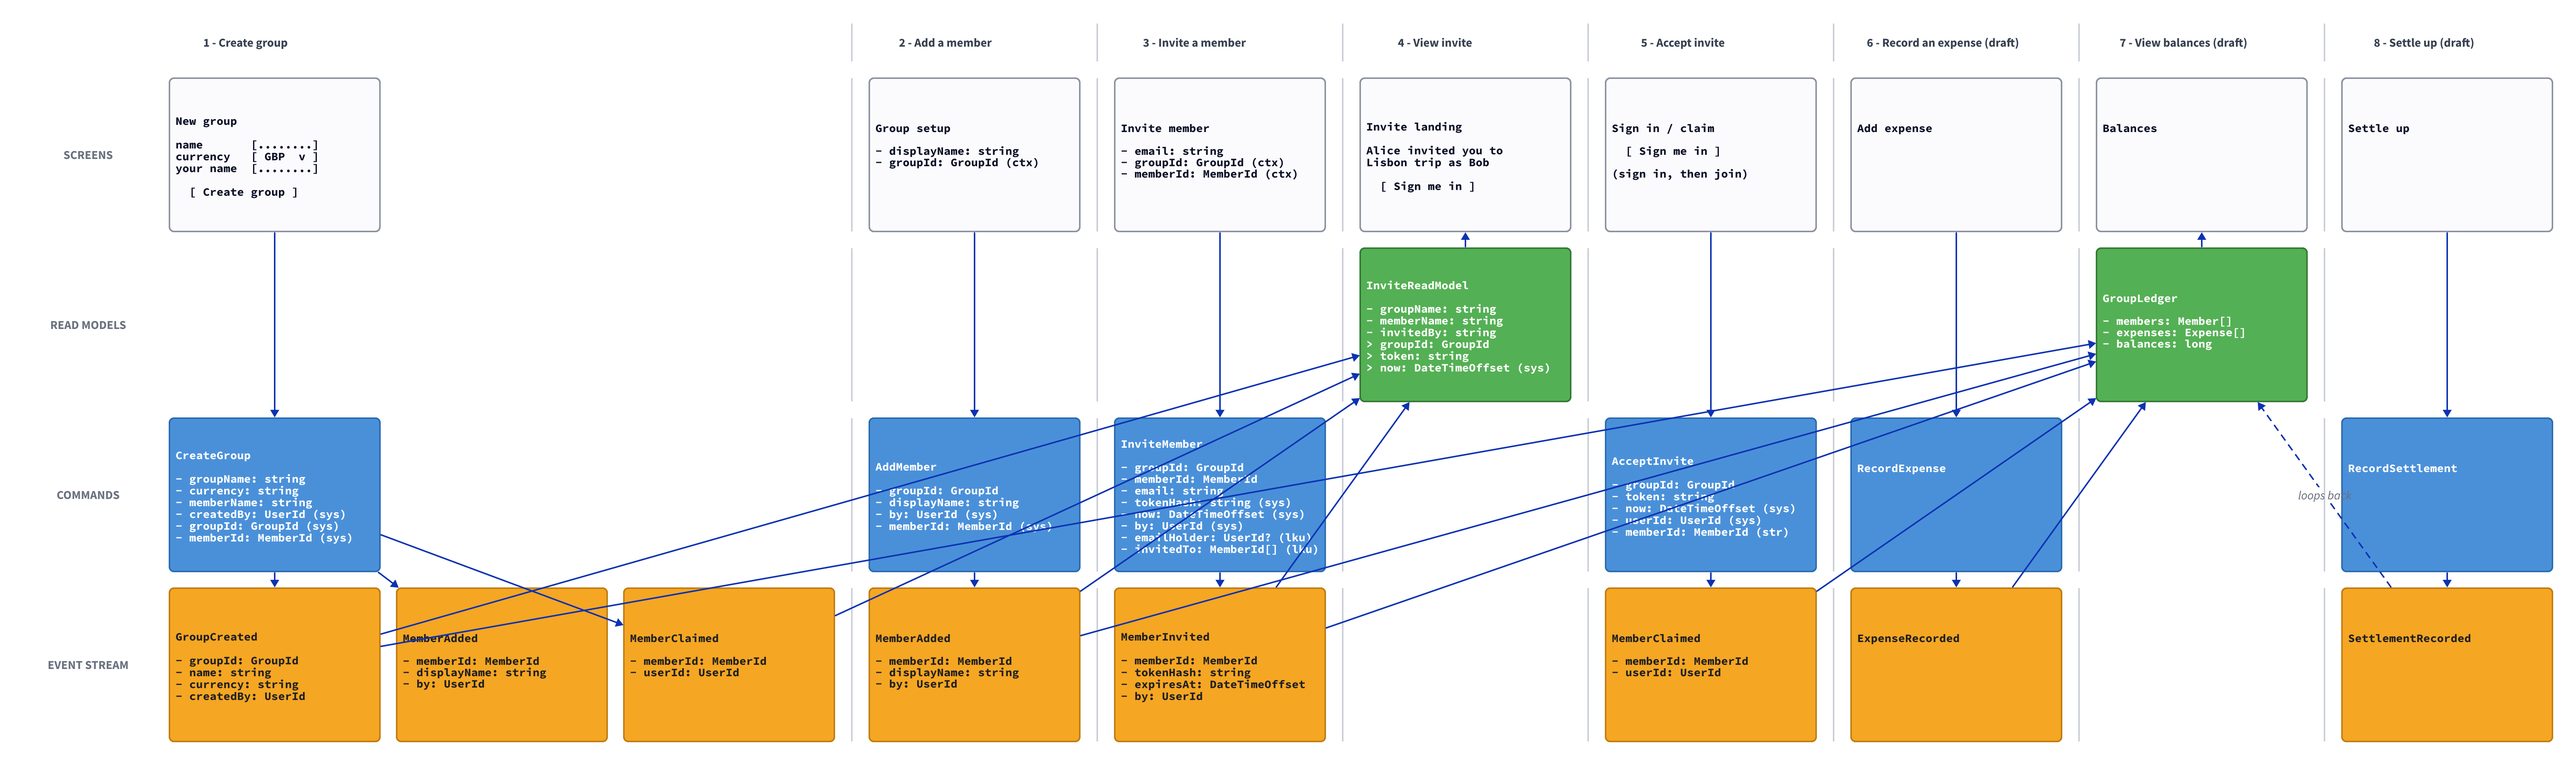
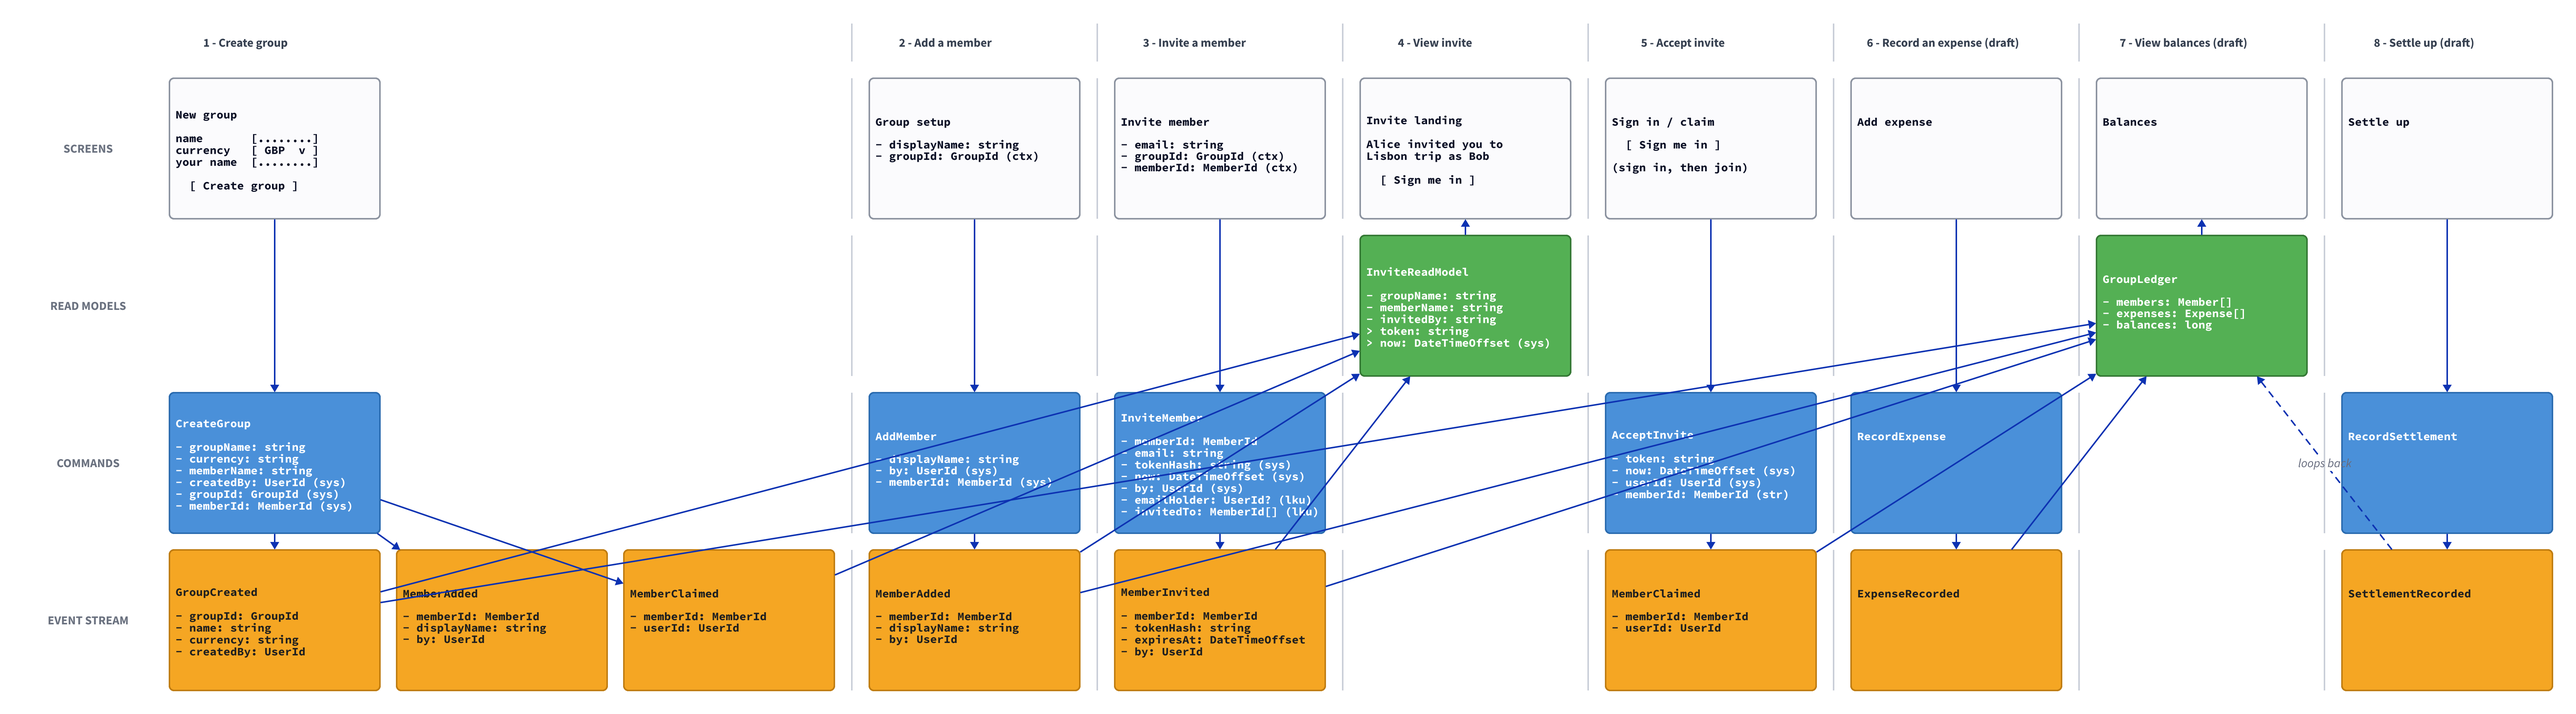
refactoring groupId

diff --git a/src/ShareExpenses/Slices/InviteMember/Endpoint.cs b/src/ShareExpenses/Slices/InviteMember/Endpoint.cs
@@ -74,11 +74,12 @@ public static class Endpoint
         var email = Decider.NormaliseEmail(request.Email);
 
         // Lookups for the guards (spec §11): outside the stream, possibly stale.
-        var command = new Command(groupId, member, request.Email, tokenHash, clock.GetUtcNow(), user.UserId())
-        {
-            EmailHolder = email.Length > 0 ? await directory.AccountFor(email, ct) : null,
-            InvitedTo = await SlotsInvitedAt(session, groupId, email, ct),
-        };
+        var emailHolder = email.Length > 0 ? await directory.AccountFor(email, ct) : null;
+        var invitedTo = await SlotsInvitedAt(session, groupId, email, ct);
+
+        var command = new Command(
+            member, request.Email, tokenHash, clock.GetUtcNow(), user.UserId(),
+            EmailHolder: emailHolder, InvitedTo: invitedTo);
 
         switch (Decider.Decide(state, command))
         {
@@ -86,9 +87,9 @@ public static class Endpoint
                 // Same session, same transaction as the event.
                 session.Store(new InviteDelivery
                 {
-                    Id = member.Value,
+                    Id = command.MemberId.Value,
                     GroupId = groupId,
-                    TokenHash = tokenHash,
+                    TokenHash = command.TokenHash,
                     Email = email,
                 });
 
@@ -99,7 +100,8 @@ public static class Endpoint
 
                 // Accepted implies the actor is a member and the slot exists.
                 pending.Email = new InviteEmail(
-                    groupId, member, email, link, state!.GroupName, state.Slots[state.Members[command.By]].Name, state.Slots[member].Name);
+                    groupId, command.MemberId, email, link,
+                    state!.GroupName, state.Slots[state.Members[command.By]].Name, state.Slots[command.MemberId].Name);
                 return (Results.Ok(new Response(link)), [.. accepted.Events]);
             case Decision.Rejected { Kind: Rejection.NotFound } rejected:
                 return (Results.Problem(rejected.Reason, statusCode: StatusCodes.Status404NotFound), []);

diff --git a/src/ShareExpenses/Slices/AddMember/Endpoint.cs b/src/ShareExpenses/Slices/AddMember/Endpoint.cs
@@ -34,7 +34,6 @@ public static class Endpoint
     [WolverinePost("/groups/{group}/members", Name = "AddMember")]
     [Authorize]
     public static (IResult, Events) Post(
-        string group,
         Request request,
         // Required = false: a missing stream arrives as null and is answered by
         // Decide, so "no such group" and "not a member" give the same 404 body.
@@ -43,8 +42,7 @@ public static class Endpoint
         HttpContext http)
     {
         var memberId = MemberId.New();
-        // A malformed id resolves to a fresh one each time; harmless, as no stream has it.
-        var command = new Command(GroupStream(group), request.DisplayName, user.UserId());
+        var command = new Command(request.DisplayName, user.UserId());
 
         return Decider.Decide(state, command, memberId) switch
         {

diff --git a/src/ShareExpenses/Slices/ViewInvite/Reader.cs b/src/ShareExpenses/Slices/ViewInvite/Reader.cs
@@ -2,9 +2,12 @@ using ShareExpenses.Shared;
 
 namespace ShareExpenses.Slices.ViewInvite;
 
-/// <summary>The query, as in <c>event-model.yaml</c>: group from the route, token from the link's fragment.</summary>
+/// <summary>
+/// The query, as in <c>event-model.yaml</c>: the token from the link's fragment. The group
+/// from the link only selects the stream, so it is not here (spec §13).
+/// </summary>
 /// <param name="Now">The clock, passed in so reading stays pure and testable.</param>
-internal sealed record Query(GroupId GroupId, string? Token, DateTimeOffset Now);
+internal sealed record Query(string? Token, DateTimeOffset Now);
 
 /// <summary>
 /// The read model, as in <c>event-model.yaml</c>: exactly what the landing page

diff --git a/src/ShareExpenses/Slices/ViewInvite/Endpoint.cs b/src/ShareExpenses/Slices/ViewInvite/Endpoint.cs
@@ -30,11 +30,10 @@ public static class Endpoint
     [WolverinePost("/invites/{group}/lookup", Name = "ViewInvite")]
     [AllowAnonymous]
     public static IResult Post(
-        string group,
         Request? request,
         [ReadAggregate(FromMethod = nameof(GroupStream), Required = false)] State? state,
         TimeProvider clock) =>
-        Reader.Read(state, new Query(GroupStream(group), request?.Token, clock.GetUtcNow())) is { } invite
+        Reader.Read(state, new Query(request?.Token, clock.GetUtcNow())) is { } invite
             ? Results.Ok(invite)
             : Results.Problem(NotFoundReason, statusCode: StatusCodes.Status404NotFound);
 }

diff --git a/src/ShareExpenses/Slices/AcceptInvite/Decider.cs b/src/ShareExpenses/Slices/AcceptInvite/Decider.cs
@@ -7,7 +7,7 @@ namespace ShareExpenses.Slices.AcceptInvite;
 /// <param name="Token">From the invite link's fragment, posted in the body.</param>
 /// <param name="Now">The clock, passed in so deciding stays pure and testable.</param>
 /// <param name="UserId">The signed-in user, claiming.</param>
-internal sealed record Command(GroupId GroupId, string? Token, DateTimeOffset Now, UserId UserId);
+internal sealed record Command(string? Token, DateTimeOffset Now, UserId UserId);
 
 /// <summary>Specs: <c>docs/event-model/slice-05-claim-member.md</c>.</summary>
 internal static class Decider

diff --git a/src/ShareExpenses/Slices/InviteMember/Decider.cs b/src/ShareExpenses/Slices/InviteMember/Decider.cs
@@ -16,9 +16,11 @@ namespace ShareExpenses.Slices.InviteMember;
 /// outside the stream and may be stale. The worst a stale lookup can do is let a
 /// mistake through to claim time, where "one user, one slot" is enforced against
 /// the stream itself.
+///
+/// No group id: it only selects the stream, which Wolverine fetches from the route
+/// before the endpoint runs (spec §13). Deciding gets the group as its folded state.
 /// </remarks>
 internal sealed record Command(
-    GroupId GroupId,
     MemberId MemberId,
     string? Email,
     string TokenHash,

diff --git a/tests/ShareExpenses.Tests/Slices/AcceptInvite/AcceptInviteSpecs.cs b/tests/ShareExpenses.Tests/Slices/AcceptInvite/AcceptInviteSpecs.cs
@@ -45,7 +45,7 @@ public class AcceptInviteSpecs
     private static readonly DecideSpec<Command> Spec =
         new((history, command) => Decider.Decide(Fold.Of<State>(history), command));
 
-    private static Command AcceptInvite(string? token, UserId by, DateTimeOffset at) => new(G1, token, at, by);
+    private static Command AcceptInvite(string? token, UserId by, DateTimeOffset at) => new(token, at, by);
 
     [Fact]
     public void S1_claims_the_invited_slot() =>

diff --git a/src/ShareExpenses/Slices/AddMember/Decider.cs b/src/ShareExpenses/Slices/AddMember/Decider.cs
@@ -4,7 +4,7 @@ using ShareExpenses.Slices.CreateGroup;
 namespace ShareExpenses.Slices.AddMember;
 
 /// <summary>The command, as in <c>event-model.yaml</c>. Inputs are raw; deciding validates them.</summary>
-internal sealed record Command(GroupId GroupId, string? DisplayName, UserId By);
+internal sealed record Command(string? DisplayName, UserId By);
 
 /// <summary>Specs: <c>docs/event-model/slice-02-add-member.md</c>.</summary>
 internal static class Decider

diff --git a/tests/ShareExpenses.Tests/Slices/AddMember/AddMemberSpecs.cs b/tests/ShareExpenses.Tests/Slices/AddMember/AddMemberSpecs.cs
@@ -36,7 +36,7 @@ public class AddMemberSpecs
 
     private DecideSpec<Command> Spec => new((history, command) => Decider.Decide(Fold.Of<State>(history), command, _next));
 
-    private static Command AddMember(string? displayName, UserId by) => new(G1, displayName, by);
+    private static Command AddMember(string? displayName, UserId by) => new(displayName, by);
 
     [Fact]
     public void S1_adds_a_placeholder_member_by_name_alone() =>

diff --git a/tests/ShareExpenses.Tests/Slices/ViewInvite/ViewInviteSpecs.cs b/tests/ShareExpenses.Tests/Slices/ViewInvite/ViewInviteSpecs.cs
@@ -46,7 +46,7 @@ public class ViewInviteSpecs
     private static readonly ReadSpec<Query, InviteReadModel> Spec =
         new((history, query) => Reader.Read(Fold.Of<State>(history), query));
 
-    private static Query ViewInvite(string? token, DateTimeOffset at) => new(G1, token, at);
+    private static Query ViewInvite(string? token, DateTimeOffset at) => new(token, at);
 
     [Fact]
     public void S1_shows_a_live_invite() =>

diff --git a/tests/ShareExpenses.Tests/Slices/InviteMember/InviteMemberSpecs.cs b/tests/ShareExpenses.Tests/Slices/InviteMember/InviteMemberSpecs.cs
@@ -51,7 +51,7 @@ public class InviteMemberSpecs
 
     private static Command InviteMember(
         MemberId member, string? email, UserId by, UserId? emailHolder = null, params MemberId[] invitedTo) =>
-        new(G1, member, email, H1, T0, by, emailHolder, invitedTo.ToHashSet());
+        new(member, email, H1, T0, by, emailHolder, invitedTo.ToHashSet());
 
     [Fact]
     public void S1_invites_a_placeholder_member() =>

diff --git a/src/ShareExpenses/Slices/AcceptInvite/Endpoint.cs b/src/ShareExpenses/Slices/AcceptInvite/Endpoint.cs
@@ -45,7 +45,7 @@ public static class Endpoint
         TimeProvider clock)
     {
         var groupId = GroupStream(group);
-        var command = new Command(groupId, request?.Token, clock.GetUtcNow(), user.UserId());
+        var command = new Command(request?.Token, clock.GetUtcNow(), user.UserId());
 
         switch (Decider.Decide(state, command))
         {
